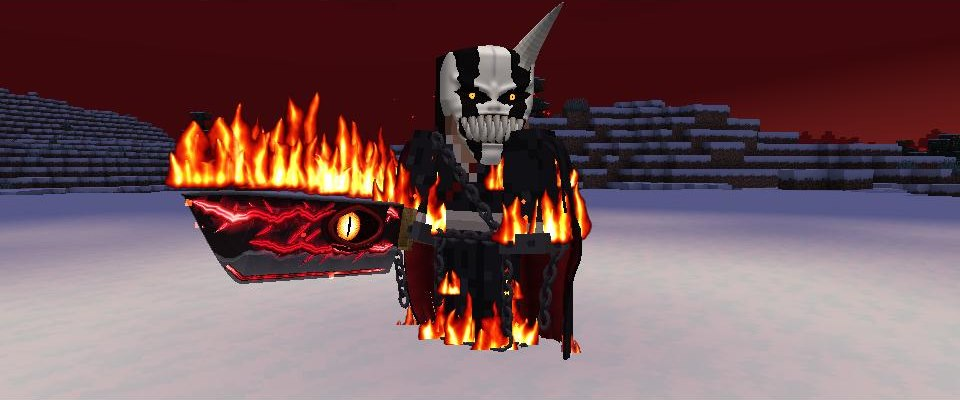
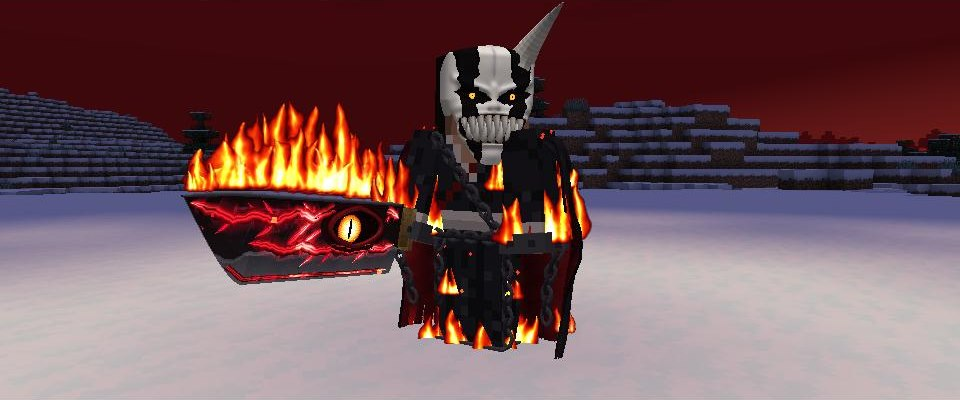
Release 1.9.3: fire stays on the blade and works at any first-person angle
Blade flames are spaced over the real steel only: they get lower and narrower
near the guard and the tip, and no sprite passes the end of the blade. Each
flame grows from the edge of the blade that is on top on screen, and sits in
front of the blade's thickness, so the sword no longer hides its own fire.

First-person hand matrices are in world axes with the camera at the origin,
not in camera axes as the code assumed, so looking down or up tipped the fire
over and hid it. Flames now grow toward the top of the view at any angle, and
first-person chains hang along the true vertical.

diff --git a/src/client/java/com/zangetsu/client/render/FinalFormFeatureRenderer.java b/src/client/java/com/zangetsu/client/render/FinalFormFeatureRenderer.java
@@ -14,7 +14,6 @@ import net.minecraft.client.util.SkinTextures;
 import net.minecraft.client.util.math.MatrixStack;
 import net.minecraft.util.math.MathHelper;
 import org.joml.Matrix4f;
-import org.joml.Quaternionf;
 import org.joml.Vector3f;
 
 /**
@@ -43,7 +42,6 @@ public class FinalFormFeatureRenderer extends FeatureRenderer<AbstractClientPlay
     private static final float ARM_FLAME_HEIGHT = 9.5F, LEG_FLAME_HEIGHT = 8.0F, FLAME_WIDTH = 6.5F;
     /** От первого лица рука у самой камеры: такой же огонь закрыл бы весь обзор. */
     private static final float FIRST_PERSON_FLAME = 0.5F;
-    private static final Vector3f WORLD_UP = new Vector3f(0.0F, 1.0F, 0.0F);
 
     /** Конечность с кандалами. {@code side} — её внешняя сторона, {@code bend} — насколько согнута в этот кадр. */
     private record Limb(ModelPart part, float centerX, float halfX, float side, boolean arm, float bend, float seed, String key) {
@@ -103,16 +101,15 @@ public class FinalFormFeatureRenderer extends FeatureRenderer<AbstractClientPlay
         Matrix4f simFromBody = physics.simFromLocal(matrices.peek().getPositionMatrix());
         Matrix4f bodyFromSim = physics.bodyFromSim(stepped, simFromBody);
         Vector3f bodyWind = physics.spaceDirection(physics.flameWind("body", simFromBody.transformPosition(0.0F, 0.5F, 0.0F, new Vector3f()), animationProgress));
-        Flames.Frame frame = stepped ? new Flames.Frame(matrices.peek(), WORLD_UP, bodyWind, flameTime, heat)
-                : new Flames.Frame(matrices.peek(), Flames.SCREEN_UP, bodyWind, flameTime, heat, Flames.SCREEN_VIEW);
+        Flames.Frame frame = stepped ? Flames.Frame.world(matrices.peek(), bodyWind, flameTime, heat) : Flames.Frame.screen(matrices.peek(), bodyWind, flameTime, heat);
         TatteredCloak.render(matrices, consumers, light, physics, animationProgress, grow, speed, heat, stepped, simFromBody, bodyFromSim, capsules, ground, frame);
         bodyChains(matrices, consumers, light, physics, player, simFromBody, bodyFromSim, frame, capsules, ground, animationProgress, grow, stepped);
         matrices.pop();
 
-        limb(matrices, consumers, light, physics, player, new Limb(model.rightArm, -armX, armHalf, -1.0F, true, bend(bends, 0), 1.0F, "wrist_r"), WORLD_UP, animationProgress, flameTime, heat, grow, capsules, ground, stepped, bodyFromSim);
-        limb(matrices, consumers, light, physics, player, new Limb(model.leftArm, armX, armHalf, 1.0F, true, bend(bends, 1), 2.0F, "wrist_l"), WORLD_UP, animationProgress, flameTime, heat, grow, capsules, ground, stepped, bodyFromSim);
-        limb(matrices, consumers, light, physics, player, new Limb(model.rightLeg, 0.0F, HALF, -1.0F, false, bend(bends, 2), 3.0F, "ankle_r"), WORLD_UP, animationProgress, flameTime, heat, grow, capsules, ground, stepped, bodyFromSim);
-        limb(matrices, consumers, light, physics, player, new Limb(model.leftLeg, 0.0F, HALF, 1.0F, false, bend(bends, 3), 4.0F, "ankle_l"), WORLD_UP, animationProgress, flameTime, heat, grow, capsules, ground, stepped, bodyFromSim);
+        limb(matrices, consumers, light, physics, player, new Limb(model.rightArm, -armX, armHalf, -1.0F, true, bend(bends, 0), 1.0F, "wrist_r"), animationProgress, flameTime, heat, grow, capsules, ground, stepped, bodyFromSim);
+        limb(matrices, consumers, light, physics, player, new Limb(model.leftArm, armX, armHalf, 1.0F, true, bend(bends, 1), 2.0F, "wrist_l"), animationProgress, flameTime, heat, grow, capsules, ground, stepped, bodyFromSim);
+        limb(matrices, consumers, light, physics, player, new Limb(model.rightLeg, 0.0F, HALF, -1.0F, false, bend(bends, 2), 3.0F, "ankle_r"), animationProgress, flameTime, heat, grow, capsules, ground, stepped, bodyFromSim);
+        limb(matrices, consumers, light, physics, player, new Limb(model.leftLeg, 0.0F, HALF, 1.0F, false, bend(bends, 3), 4.0F, "ankle_l"), animationProgress, flameTime, heat, grow, capsules, ground, stepped, bodyFromSim);
     }
 
     private static float bend(float[] bends, int limb) {
@@ -147,20 +144,18 @@ public class FinalFormFeatureRenderer extends FeatureRenderer<AbstractClientPlay
         return out;
     }
 
-    /** Рука от первого лица: те же кандалы, цепь и огонь, только физика считается из вида камеры. */
+    /** Рука от первого лица: те же кандалы, цепь и огонь. */
     public static void firstPersonArm(MatrixStack matrices, VertexConsumerProvider consumers, int light, AbstractClientPlayerEntity player, ModelPart arm, boolean right) {
         if (!ClientState.isFinal(player)) {
             return;
         }
         float time = player.age + MinecraftClient.getInstance().getRenderTickCounter().getTickDelta(false);
-        Quaternionf toView = new Quaternionf(MinecraftClient.getInstance().gameRenderer.getCamera().getRotation()).conjugate();
-        Vector3f up = toView.transform(new Vector3f(0.0F, 1.0F, 0.0F));
         FormPhysics physics = FormPhysics.of(player);
         physics.enterFirstPerson(player);
         float heat = physics.heat(time, speed(player));
         float side = right ? -1.0F : 1.0F;
         Limb limb = new Limb(arm, side * armCenter(player), armHalf(player), side, true, 0.0F, right ? 1.0F : 2.0F, right ? "fp_wrist_r" : "fp_wrist_l");
-        limb(matrices, consumers, light, physics, player, limb, up, time, physics.flameTime(time), heat, 1.0F, new float[0][], Float.NEGATIVE_INFINITY, true, null);
+        limb(matrices, consumers, light, physics, player, limb, time, physics.flameTime(time), heat, 1.0F, new float[0][], Float.NEGATIVE_INFINITY, true, null);
     }
 
     /**
@@ -168,7 +163,7 @@ public class FinalFormFeatureRenderer extends FeatureRenderer<AbstractClientPlay
      * Сначала железо, потом тело пламени, потом свет: каждый слой можно запрашивать, только закончив предыдущий.
      */
     private static void limb(MatrixStack matrices, VertexConsumerProvider consumers, int light, FormPhysics physics, AbstractClientPlayerEntity player, Limb limb,
-            Vector3f spaceUp, float now, float flameTime, float heat, float grow, float[][] capsules, float ground, boolean stepped, Matrix4f bodyFromSim) {
+            float now, float flameTime, float heat, float grow, float[][] capsules, float ground, boolean stepped, Matrix4f bodyFromSim) {
         boolean arm = limb.arm();
         float centerX = limb.centerX(), halfX = limb.halfX(), y = limb.y(), seed = limb.seed();
         float midY = y - (arm ? 5.0F : 5.5F);
@@ -182,11 +177,9 @@ public class FinalFormFeatureRenderer extends FeatureRenderer<AbstractClientPlay
         MatrixStack.Entry entry = matrices.peek();
         Matrix4f simFromLimb = physics.simFromLocal(entry.getPositionMatrix());
         Vector3f wrist = simFromLimb.transformPosition(centerX / 16.0F, y / 16.0F, 0.0F, new Vector3f());
-        // В инвентаре модель нарисована на экране, а не в мире: и верх, и взгляд там свои.
-        Vector3f up = stepped ? spaceUp : Flames.SCREEN_UP, view = stepped ? null : Flames.SCREEN_VIEW;
         // Огонь отстаёт от самой руки: махнул — языки вытянулись назад.
         Vector3f wind = physics.spaceDirection(physics.flameWind(limb.key(), wrist, now));
-        Flames.Frame frame = new Flames.Frame(entry, up, wind, flameTime, heat, view);
+        Flames.Frame frame = frameOf(entry, wind, flameTime, heat, stepped);
         // Рука или нога ушла назад под плащ: огонь там приседает, иначе его языки торчали бы сквозь ткань. Вышла вперёд — разгорается снова.
         float covered = stepped && bodyFromSim != null ? coverage(bodyFromSim.transformPosition(wrist, new Vector3f()).z * 16.0F) : 0.0F;
         float near = stepped && capsules.length == 0 ? FIRST_PERSON_FLAME : 1.0F;
@@ -219,7 +212,7 @@ public class FinalFormFeatureRenderer extends FeatureRenderer<AbstractClientPlay
         // Огонь поменьше стоит у самого сгиба: у него своё положение.
         matrices.push();
         BentLimbs.toSection(matrices, limb.joint(), limb.bend(), midY);
-        Flames.Frame middle = new Flames.Frame(matrices.peek(), up, wind, flameTime, heat, view);
+        Flames.Frame middle = frameOf(matrices.peek(), wind, flameTime, heat, stepped);
         for (int i = 0; i < SMALL_FLAMES; i++) {
             float[] base = ringPoint(centerX, halfX, midY, i, SMALL_FLAMES, seed + 5.0F);
             Flames.flame(blend, middle, base[0], base[1], base[2], length * 0.58F, width * 0.7F, seed * 13.0F + i * 2.3F, 0.95F);
@@ -233,7 +226,7 @@ public class FinalFormFeatureRenderer extends FeatureRenderer<AbstractClientPlay
 
         matrices.push();
         BentLimbs.toSection(matrices, limb.joint(), limb.bend(), y);
-        Flames.Frame lit = new Flames.Frame(matrices.peek(), up, wind, flameTime, heat, view);
+        Flames.Frame lit = frameOf(matrices.peek(), wind, flameTime, heat, stepped);
         for (int i = 0; i < BIG_FLAMES; i++) {
             float[] base = ringPoint(centerX, halfX, y + 0.5F, i, BIG_FLAMES, seed);
             Flames.glow(core, lit, base[0], base[1], base[2], length * bigHeight(seed, i), width, seed * 10.0F + i * 1.7F, 0.9F);
@@ -244,6 +237,11 @@ public class FinalFormFeatureRenderer extends FeatureRenderer<AbstractClientPlay
         matrices.pop();
 
         matrices.pop();
+    }
+
+    /** Где рисуем огонь конечности: в мире и от первого лица или на экране инвентаря. */
+    private static Flames.Frame frameOf(MatrixStack.Entry entry, Vector3f wind, float time, float heat, boolean stepped) {
+        return stepped ? Flames.Frame.world(entry, wind, time, heat) : Flames.Frame.screen(entry, wind, time, heat);
     }
 
     /** Высота большого пламени: у каждого своя, чтобы верхушки не стояли ровным рядом. */

diff --git a/src/client/java/com/zangetsu/client/render/Flames.java b/src/client/java/com/zangetsu/client/render/Flames.java
@@ -41,20 +41,19 @@ final class Flames {
         final Matrix4f matrix;
         final Vector3f up, wind, a, b;
         final Vector3f spaceUp, spaceWind;
-        /** Куда смотреть на огонь, если камера не в начале координат (null — камера в начале, как и в мире, и от первого лица). */
+        /** Куда смотреть на огонь, если камера не в начале координат (null — камера в начале). */
         final Vector3f view;
+        /** Верх кадра: туда растёт пламя. */
+        final Vector3f screenUp;
         /** Сколько единиц пространства в единице матрицы. */
         final float unit;
         final float time;
         /** От жара пламя выше и бьётся сильнее. */
         final float scale, sway;
+        /** На сколько (в единицах матрицы) поднести полотно к камере: иначе плоскость огня проходит сквозь толщу клинка, и половину пламени закрывает сам клинок. */
+        float towardCamera;
 
-        /** {@code spaceUp} и {@code spaceWind} — вверх по миру и ветер в пространстве, где стоит матрица (мир без поворота камеры либо вид камеры). */
-        Frame(MatrixStack.Entry entry, Vector3f spaceUp, Vector3f spaceWind, float time, float heat) {
-            this(entry, spaceUp, spaceWind, time, heat, null);
-        }
-
-        Frame(MatrixStack.Entry entry, Vector3f spaceUp, Vector3f spaceWind, float time, float heat, Vector3f view) {
+        private Frame(MatrixStack.Entry entry, Vector3f spaceUp, Vector3f spaceWind, float time, float heat, Vector3f view, Vector3f screenUp) {
             this.matrix = entry.getPositionMatrix();
             Matrix4f inverse = new Matrix4f(this.matrix).invert();
             this.up = inverse.transformDirection(new Vector3f(spaceUp)).normalize();
@@ -64,10 +63,37 @@ final class Flames {
             this.spaceUp = new Vector3f(spaceUp).normalize();
             this.spaceWind = new Vector3f(spaceWind);
             this.view = view;
+            this.screenUp = screenUp;
             this.unit = this.matrix.transformDirection(0.0F, 1.0F, 0.0F, new Vector3f()).length();
             this.time = time;
             this.scale = 1.0F + 0.4F * heat;
             this.sway = 1.0F + 0.8F * heat;
+        }
+
+        /** Огонь в мире и от первого лица: матрица стоит в осях мира, камера в начале координат (игра рисует руку так же, сняв поворот камеры с матрицы). */
+        static Frame world(MatrixStack.Entry entry, Vector3f wind, float time, float heat) {
+            return new Frame(entry, new Vector3f(0.0F, 1.0F, 0.0F), wind, time, heat, null, new Vector3f(MinecraftClient.getInstance().gameRenderer.getCamera().getVerticalPlane()));
+        }
+
+        /** В инвентаре: модель нарисована на экране. */
+        static Frame screen(MatrixStack.Entry entry, Vector3f wind, float time, float heat) {
+            return new Frame(entry, SCREEN_UP, wind, time, heat, SCREEN_VIEW, SCREEN_UP);
+        }
+
+        /**
+         * Куда растёт пламя в точке {@code base} (координаты пространства): к верху кадра. Камера не наклоняется набок, поэтому посреди экрана это и есть верх мира,
+         * зато так он не расходится лучами и не сжимается в точку, когда смотришь вниз или вверх: полотно видно целиком под любым углом, и огонь не свисает.
+         */
+        Vector3f axisAt(Vector3f base) {
+            Vector3f look = this.lookFrom(base);
+            float along = this.screenUp.dot(look);
+            Vector3f axis = new Vector3f(this.screenUp).sub(look.x * along, look.y * along, look.z * along);
+            return axis.lengthSquared() < 1.0E-5F ? new Vector3f(this.screenUp) : axis.normalize();
+        }
+
+        /** Направление от точки к камере. */
+        Vector3f lookFrom(Vector3f base) {
+            return this.view != null ? this.view : new Vector3f(base).negate().normalize();
         }
     }
 
@@ -122,12 +148,10 @@ final class Flames {
 
     private static void sprite(VertexConsumer out, Frame f, float x, float y, float z, float height, float width, float seed, int color, boolean bothSides) {
         Vector3f base = f.matrix.transformPosition(x, y, z, new Vector3f());
-        Vector3f view = f.view != null ? f.view : new Vector3f(base).negate().normalize();
-        Vector3f side = new Vector3f(f.spaceUp).cross(view);
-        if (side.lengthSquared() < 1.0E-3F) {
-            side.set(1.0F, 0.0F, 0.0F);
-        }
-        side.normalize();
+        Vector3f look = f.lookFrom(base);
+        base.add(look.x * f.towardCamera * f.unit, look.y * f.towardCamera * f.unit, look.z * f.towardCamera * f.unit);
+        Vector3f axis = f.axisAt(base);
+        Vector3f side = new Vector3f(axis).cross(look).normalize();
         float t = f.time;
         int own = (int) (seed * 97.0F);
         // Пламя дышит: то выше, то ниже, у каждого по-своему.
@@ -147,8 +171,8 @@ final class Flames {
         for (int i = 0; i <= STRIPS; i++) {
             float s = (float) i / STRIPS;
             float along = tall * s, curve = tall * s * s;
-            Vector3f center = new Vector3f(base).add(f.spaceUp.x * along + f.spaceWind.x * curve + side.x * swing * s * s,
-                    f.spaceUp.y * along + f.spaceWind.y * curve + side.y * swing * s * s, f.spaceUp.z * along + f.spaceWind.z * curve + side.z * swing * s * s);
+            Vector3f center = new Vector3f(base).add(axis.x * along + f.spaceWind.x * curve + side.x * swing * s * s,
+                    axis.y * along + f.spaceWind.y * curve + side.y * swing * s * s, axis.z * along + f.spaceWind.z * curve + side.z * swing * s * s);
             Vector3f l = new Vector3f(center).sub(side.x * half, side.y * half, side.z * half), r = new Vector3f(center).add(side.x * half, side.y * half, side.z * half);
             if (left != null) {
                 float v0 = top + cell * (1.0F - (float) (i - 1) / STRIPS), v1 = top + cell * (1.0F - s);

diff --git a/src/client/java/com/zangetsu/client/render/ZangetsuItemRenderer.java b/src/client/java/com/zangetsu/client/render/ZangetsuItemRenderer.java
@@ -660,8 +660,9 @@ public class ZangetsuItemRenderer implements BuiltinItemRendererRegistry.Dynamic
      * Огонь финальной формы вдоль обуха: то же пламя, что на руках, только мельче. Снос считается от самого клинка:
      * в ударе меч несётся быстро, и пламя вытягивается за ним, как хвост.
      */
-    /** Сколько полотен огня вдоль обуха. */
+    /** Сколько полотен огня вдоль клинка и на сколько крайние отступают от его концов. */
     private static final int BLADE_FLAMES = 13;
+    private static final float FLAME_INSET = 0.9F;
 
     private static void bladeFire(VertexConsumerProvider consumers, MatrixStack matrices, Entity holder, FormPhysics physics, ModelTransformationMode mode, float now, float blaze, float waves) {
         // В обряде огонь приходит только с молнией.
@@ -669,36 +670,58 @@ public class ZangetsuItemRenderer implements BuiltinItemRendererRegistry.Dynamic
         if (grow <= 0.0F) {
             return;
         }
-        Vector3f up = new Vector3f(0.0F, 1.0F, 0.0F);
         Matrix4f matrix = matrices.peek().getPositionMatrix();
         boolean firstPerson = mode == ModelTransformationMode.FIRST_PERSON_RIGHT_HAND || mode == ModelTransformationMode.FIRST_PERSON_LEFT_HAND;
         Vector3f middle = toModel(BLADE_START + (BLADE_END - BLADE_START) * 0.6F, 0.0F, 0.0F);
         Vector3f wind = new Vector3f();
         boolean inWorld = firstPerson;
         if (firstPerson) {
-            new Quaternionf(MinecraftClient.getInstance().gameRenderer.getCamera().getRotation()).conjugate().transform(up);
             physics.enterFirstPerson(holder);
             wind = physics.spaceDirection(physics.flameWind("fp_blade", physics.simFromLocal(matrix).transformPosition(middle, new Vector3f()), now));
         } else if (physics.enterWorld(matrix, holder, MinecraftClient.getInstance().getRenderTickCounter().getTickDelta(false))) {
             inWorld = true;
             wind = physics.spaceDirection(physics.flameWind("blade", physics.simFromLocal(matrix).transformPosition(middle, new Vector3f()), now));
         }
-        Flames.Frame frame = inWorld ? new Flames.Frame(matrices.peek(), up, wind, waves, blaze)
-                : new Flames.Frame(matrices.peek(), Flames.SCREEN_UP, wind, waves, blaze, Flames.SCREEN_VIEW);
+        Flames.Frame frame = inWorld ? Flames.Frame.world(matrices.peek(), wind, waves, blaze) : Flames.Frame.screen(matrices.peek(), wind, waves, blaze);
+        // Полотно перед толщей клинка, иначе он закрывает пламя собой.
+        frame.towardCamera = (FLAT_T + 0.3F) / 16.0F;
         float px = grow / 16.0F;
-        // Стена огня вдоль обуха, а поверх свет: сперва тело, потом серединка.
+        float[][] flames = new float[BLADE_FLAMES][];
+        for (int i = 0; i < BLADE_FLAMES; i++) {
+            flames[i] = bladeFlame(i, frame, matrix, px);
+        }
+        // Стена огня вдоль клинка, а поверх свет: сперва тело, потом серединка.
         VertexConsumer blend = consumers.getBuffer(Flames.bodyLayer());
         for (int i = 0; i < BLADE_FLAMES; i++) {
-            float u = BLADE_START + 0.6F + i * 1.2F;
-            Vector3f spine = toModel(u, section(u)[0] + 0.05F, 0.0F);
-            Flames.flame(blend, frame, spine.x, spine.y, spine.z, (5.0F + 2.6F * burnRand(i, 7)) * px, 4.6F * px, i * 1.3F, 0.95F);
+            float[] flame = flames[i];
+            Flames.flame(blend, frame, flame[0], flame[1], flame[2], flame[3], flame[4], i * 1.3F, 0.95F);
         }
         VertexConsumer light = consumers.getBuffer(Flames.coreLayer());
         for (int i = 0; i < BLADE_FLAMES; i++) {
-            float u = BLADE_START + 0.6F + i * 1.2F;
-            Vector3f spine = toModel(u, section(u)[0] + 0.05F, 0.0F);
-            Flames.glow(light, frame, spine.x, spine.y, spine.z, (5.0F + 2.6F * burnRand(i, 7)) * px, 4.6F * px, i * 1.3F, 0.85F);
+            float[] flame = flames[i];
+            Flames.glow(light, frame, flame[0], flame[1], flame[2], flame[3], flame[4], i * 1.3F, 0.85F);
         }
+    }
+
+    /**
+     * Пламя номер {@code i} вдоль клинка: {x, y, z, высота, ширина}. Стоит только там, где есть сталь: у гарды и у острия оно ниже и уже, а полотно не выходит за конец клинка.
+     * Огонь растёт от того края клинка, который сейчас сверху на экране: обычно от обуха, а если клинок перевёрнут — от кромки, поэтому не ложится на глаз и жилы.
+     */
+    private static float[] bladeFlame(int i, Flames.Frame frame, Matrix4f matrix, float px) {
+        float u = MathHelper.lerp((float) i / (BLADE_FLAMES - 1), BLADE_START + FLAME_INSET, BLADE_END - FLAME_INSET);
+        float[] s = section(u);
+        Vector3f spine = toModel(u, s[0] + 0.05F, 0.0F), edge = toModel(u, s[2] - 0.05F, 0.0F);
+        Vector3f base = matrix.transformPosition(new Vector3f(spine).lerp(edge, 0.5F), new Vector3f());
+        Vector3f toSpine = matrix.transformDirection(new Vector3f(spine).sub(edge), new Vector3f());
+        float height = toSpine.lengthSquared() < 1.0E-8F ? 1.0F : toSpine.normalize().dot(frame.axisAt(base));
+        float k = MathHelper.clamp((height + 0.25F) / 0.5F, 0.0F, 1.0F);
+        k = k * k * (3.0F - 2.0F * k);
+        Vector3f at = new Vector3f(edge).lerp(spine, k);
+        // Сколько стали осталось до ближайшего конца: по этому месту и сужается пламя. Шаг вдоль клинка в единицах модели — S * корень из двух / 16.
+        float room = Math.min(u - BLADE_START, BLADE_END - u) * S * MathHelper.SQUARE_ROOT_OF_TWO / 16.0F;
+        float taper = MathHelper.clamp((Math.min(u - BLADE_START, BLADE_END - u) - FLAME_INSET) / 3.0F, 0.0F, 1.0F);
+        float width = Math.min(4.6F * px, room * 2.4F);
+        return new float[]{at.x, at.y, at.z, (5.0F + 2.6F * burnRand(i, 7)) * px * (0.5F + 0.5F * taper), width};
     }
 
     private static void blade(Mesh m, boolean burning) {

diff --git a/src/trailer/java/com/zangetsu/trailer/Showcase.java b/src/trailer/java/com/zangetsu/trailer/Showcase.java
@@ -59,6 +59,7 @@ final class Showcase {
         claim();
         chains();
         cloakRun();
+        firstPersonLook();
         moves("moves_side", 50.0, 270.0F, false);
         moves("moves_front", 75.0, 205.0F, false);
         moves("moves_fp", 100.0, 0.0F, true);
@@ -279,6 +280,23 @@ final class Showcase {
         s.setup = srv -> Script.base(srv, 5, true);
         client(322.1, () -> Director.walkTo = Stage.at(0, 0, -60));
         cut(322.0, "chains_side", shot(heroAt(2.6, 1.0, 0.8), heroAt(0, 0.8, 0), 44));
+    }
+
+    /** От первого лица, взгляд почти отвесно вниз и вверх и взмах: огонь на клинке и на руке должен быть виден. */
+    private void firstPersonLook() {
+        float[][] looks = {{348.0F, 82.0F}, {352.0F, -82.0F}, {356.0F, 45.0F}};
+        String[] names = {"ff_fp_down", "ff_fp_up", "ff_fp_low"};
+        for (int i = 0; i < looks.length; i++) {
+            float t0 = looks[i][0], pitch = looks[i][1];
+            scene(names[i], t0, t0 + 3.0);
+            s.firstPerson = true;
+            s.settle = 70;
+            s.setup = srv -> Script.base(srv, 5, true);
+            speed(t0, 0.5F);
+            client(t0 + 0.05, () -> MinecraftClient.getInstance().player.setPitch(pitch));
+            client(t0 + 1.5, () -> MinecraftClient.getInstance().player.swingHand(Hand.MAIN_HAND));
+            cut(t0, "fp", shot(p(0, 5, 5), p(0, 0, 0), 70));
+        }
     }
 
     /** Плащ на бегу сзади и сбоку: руки и ноги толкают ткань, а не проходят сквозь неё. */

diff --git a/src/client/java/com/zangetsu/client/render/FormPhysics.java b/src/client/java/com/zangetsu/client/render/FormPhysics.java
@@ -13,7 +13,6 @@ import net.minecraft.sound.SoundEvents;
 import net.minecraft.util.math.MathHelper;
 import net.minecraft.util.math.Vec3d;
 import org.joml.Matrix4f;
-import org.joml.Quaternionf;
 import org.joml.Vector3f;
 
 /**
@@ -104,13 +103,11 @@ public final class FormPhysics {
         return dx * dx + dy * dy + dz * dz < 9.0;
     }
 
-    /** То же для руки от первого лица: там матрицы стоят в координатах камеры. */
+    /** То же для руки от первого лица: матрицы там тоже в осях мира с камерой в начале координат, поэтому цепь висит по настоящей вертикали, куда бы ни смотрел игрок. */
     public void enterFirstPerson(Entity player) {
-        var camera = MinecraftClient.getInstance().gameRenderer.getCamera();
+        Vec3d at = MinecraftClient.getInstance().gameRenderer.getCamera().getPos();
         origin(player);
-        Vec3d at = camera.getPos();
-        this.simFromSpace.translation((float) (at.x - this.originX), (float) (at.y - this.originY), (float) (at.z - this.originZ))
-                .rotate(new Quaternionf(camera.getRotation()));
+        this.simFromSpace.translation((float) (at.x - this.originX), (float) (at.y - this.originY), (float) (at.z - this.originZ));
         this.spaceFromSim.set(this.simFromSpace).invert();
     }
 

diff --git a/src/client/java/com/zangetsu/client/render/TatteredCloak.java b/src/client/java/com/zangetsu/client/render/TatteredCloak.java
@@ -136,7 +136,8 @@ final class TatteredCloak {
         // Маленькое пламя на кончиках длинных полос и тлеющая ткань.
         VertexConsumer blend = consumers.getBuffer(Flames.bodyLayer());
         for (int c = 2; c < COLS; c += 4) {
-            float[] tip = point(cloak, CLOAK, c, CLOAK.shreds()[c], 0.5F);
+            // Не на самом кончике: он сходит на нет и лежит на земле, и огонь висел бы рядом с тканью. Чуть выше полоса ещё широкая.
+            float[] tip = point(cloak, CLOAK, c, CLOAK.shreds()[c] * 0.84F, 0.5F);
             float size = grow * (0.8F + 0.5F * Flames.hash(c, 5));
             Flames.flame(blend, frame, tip[0] / 16.0F, tip[1] / 16.0F, tip[2] / 16.0F, size * 4.6F / 16.0F, size * 3.2F / 16.0F, c * 0.37F, 0.9F);
         }

diff --git a/CHANGELOG.md b/CHANGELOG.md
@@ -1,5 +1,14 @@
 # Изменения
 
+## 1.9.3
+
+- Огонь на клинке стоит только там, где есть сталь: у гарды и у острия он ниже и уже, а за конец клинка не выходит.
+- Огонь растёт от того края клинка, который сейчас сверху на экране: обычно от обуха, а если клинок перевёрнут — от кромки. Глаз и жилы он не закрывает, и сам клинок больше не закрывает огонь.
+- От первого лица огонь не ломается и не прячется за мечом, когда смотришь вниз или вверх: при любом взгляде он растёт к верху экрана. Причина была в том, что код считал матрицы руки осями камеры, а игра держит их в осях мира.
+- Цепи от первого лица теперь висят по настоящей вертикали, а не поворачиваются вместе с наклоном головы.
+- Маленькое пламя на плаще стоит на самой ткани: раньше оно висело в воздухе над кончиками полос, лежащими на земле.
+
+
 ## 1.9.2
 
 - Огонь теперь настоящий, а не трубки: зацикленная покадровая анимация пламени с алым краем и раскалённой серединой. Он горит на руках, ногах, кончиках плаща и вдоль обуха клинка, всегда смотрит на камеру, растёт вверх, сгибается от ветра и по-прежнему разгорается от бега и ударов. Вблизи сглажен, без пикселей. От первого лица огонь на руке меньше, чтобы не закрывать обзор.
